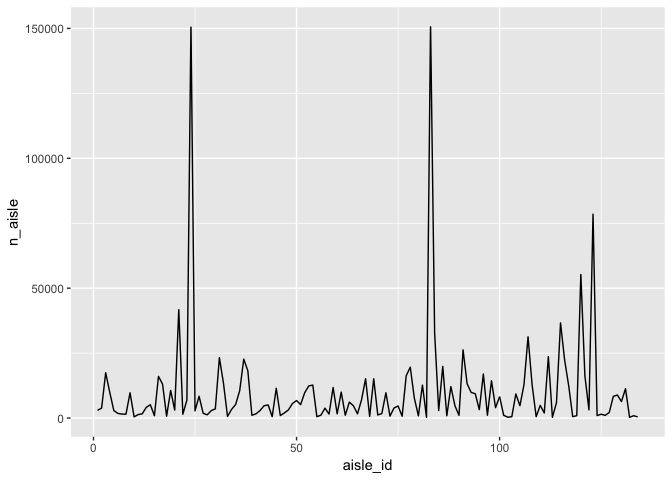
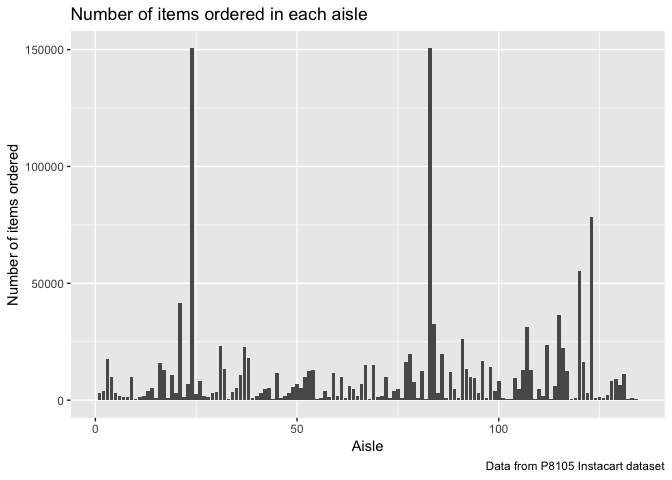
I changed my earlier plot because I decided a bar chart was more appropriate than a scatterplot, but who knows, you know?

diff --git a/p8105_hw3_tm2680.md b/p8105_hw3_tm2680.md
@@ -7,7 +7,6 @@ Problem 1
 =========
 
 ``` r
-library(p8105.datasets)
 brfss_data = brfss_smart2010 %>% 
   janitor::clean_names() %>% 
   filter(topic == "Overall Health") %>% 
@@ -16,7 +15,6 @@ brfss_data = brfss_smart2010 %>%
 ```
 
 ``` r
-library(p8105.datasets)
 brfss_data %>% 
   filter(year == 2002) %>% 
   group_by(locationabbr) %>% 
@@ -34,7 +32,6 @@ brfss_data %>%
 In 2002, Connecticut, Florida, and North Carolina were all observed at 7 distinct locations in the `brfss_data` dataset.
 
 ``` r
-library(p8105.datasets)
 brfss_data %>% 
   group_by(locationabbr, year) %>% 
   summarize(n = n_distinct(geo_location)) %>% 
@@ -48,7 +45,6 @@ brfss_data %>%
 Here is my spaghetti plot showing the number of locations across time for the `brfss_data` dataset. The colors correspond to state, and the data is from 2002 to 2010.
 
 ``` r
-library(p8105.datasets)
 brfss_data %>% 
   filter(locationabbr == "NY") %>% 
   group_by(year) %>% 
@@ -69,7 +65,6 @@ brfss_data %>%
 This is my table that shows the mean and standard deviation for the proportion of "Excellent" responses across all locations in New York for the years 2002, 2006, and 2010.
 
 ``` r
-library(p8105.datasets)
 brfss_data %>% 
   group_by(year, locationabbr) %>% 
   spread(response, data_value) %>% 
@@ -79,8 +74,8 @@ brfss_data %>%
             mean_good = mean(good, na.rm = TRUE),
             mean_fair = mean(fair, na.rm = TRUE),
             mean_poor = mean(poor, na.rm = TRUE)) %>% 
-  gather(response, data_values, mean_exc:mean_poor) %>% 
-  ggplot(aes(x = year, y = data_values, color = locationabbr)) +
+  gather(response, means, mean_exc:mean_poor) %>% 
+  ggplot(aes(x = year, y = means, color = locationabbr)) +
   geom_line() + 
   facet_grid( ~ response)
 ```
@@ -105,7 +100,6 @@ Problem 2
 The `instacart` dataset contains 1384617 observations and 15 variables. These variables describe orders from Instacart, a grocery service. For instance, `aisle` (e.g. fresh fruits) and `department` (e.g. canned goods) refer to the aisle and department the specific product within that order comes from. Every product from each order is listed as its own observation. For example, `order_id` 1 has 8 observations, related to 8 different products. We assume that `order_dow` = 0 corresponds to Sunday.
 
 ``` r
-library(p8105.datasets)
 instacart %>% 
   janitor::clean_names() %>%
   group_by(aisle_id) %>% 
@@ -121,22 +115,26 @@ instacart %>%
 The `instacart` dataset contains 134 aisles. The aisle with the most items ordered was aisle 83.
 
 ``` r
-library(p8105.datasets)
 instacart %>% 
   janitor::clean_names() %>% 
   group_by(aisle_id) %>% 
-  summarize(n_aisle = n()) %>%
-  ggplot(aes(x = aisle_id, y = n_aisle)) + 
-  geom_line() +
+  summarize(number_of_items = n()) %>%
+  ggplot(aes(x = aisle_id, y = number_of_items)) + 
+  geom_bar(stat = "identity") +
+  labs(
+    title = "Number of items ordered in each aisle",
+    x = "Aisle",
+    y = "Number of items ordered",
+    caption = "Data from P8105 Instacart dataset"
+  ) +
   theme(legend.position = "bottom")
 ```
 
 ![](p8105_hw3_tm2680_files/figure-markdown_github/insta_item_plot-1.png)
 
-Here is my plot of how many items are getting ordered in each aisle.
+Here is my plot of how many items are getting ordered in each aisle. It is a bar chart to appropriately and legibly show the relationship between aisle and items ordered.
 
 ``` r
-library(p8105.datasets)
 instacart %>% 
   janitor::clean_names() %>% 
   filter(aisle == "baking ingredients" | aisle == "dog food care" | aisle == "packaged vegetables fruits") %>% 
@@ -158,7 +156,6 @@ instacart %>%
 Here is my table that shows the most popular item in each of the following aisles.
 
 ``` r
-library(p8105.datasets)
 instacart %>% 
   filter(product_name == "Pink Lady Apples" | product_name == "Coffee Ice Cream") %>% 
   group_by(product_name, order_dow) %>% 
@@ -177,3 +174,14 @@ instacart %>%
     ##   <chr>            <chr> <chr> <chr> <chr> <chr> <chr> <chr>
     ## 1 Coffee Ice Cream 01 PM 06 AM 01 AM 03 AM 08 AM 07 AM 04 AM
     ## 2 Pink Lady Apples 12 AM 09 AM 06 AM 06 AM 09 AM 01 AM 04 AM
+
+Problem 3
+=========
+
+``` r
+noaa = ny_noaa %>% 
+  janitor::clean_names() %>% 
+  mutate(year = lubridate::year(date),
+         month = lubridate::month(date),
+         day = lubridate::wday(date))
+```
